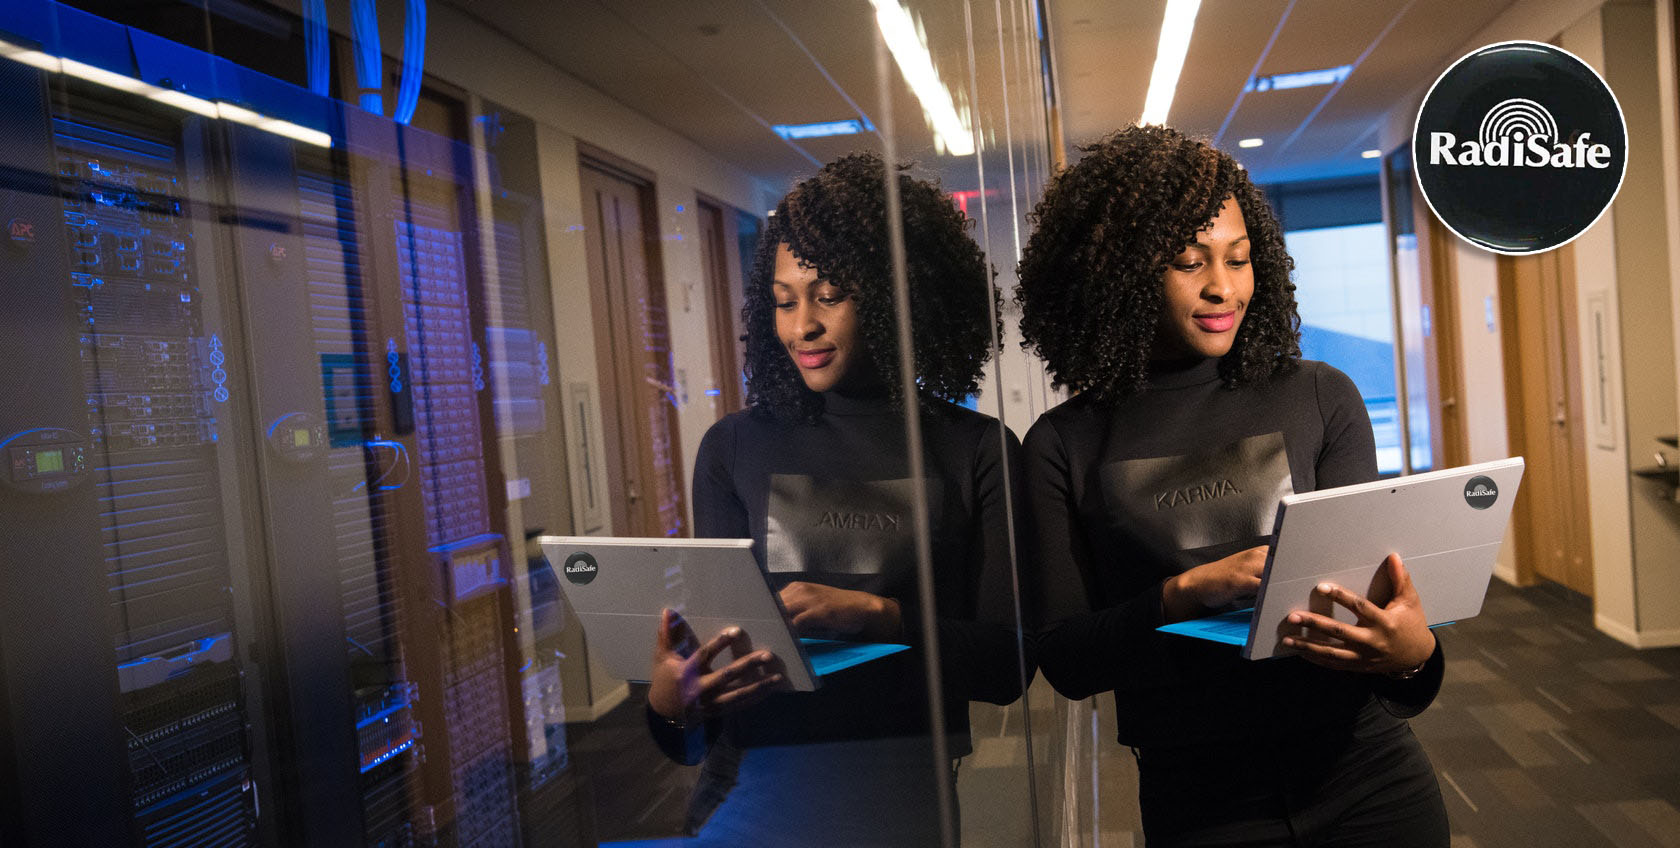
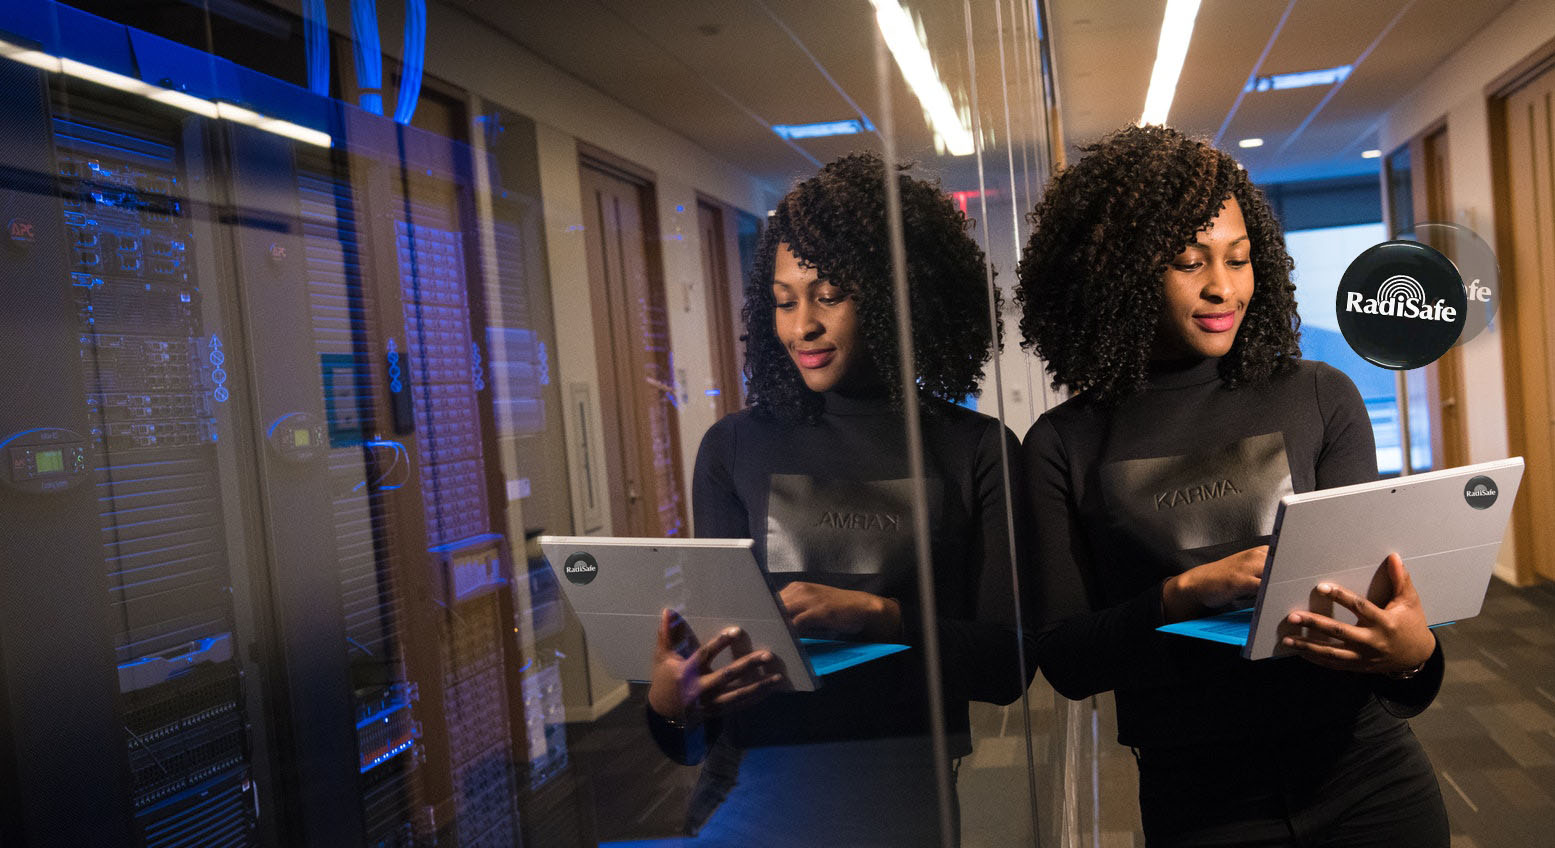
Ajout img header

diff --git a/assets/css/main.css b/assets/css/main.css
@@ -1,5 +1,6 @@
 .header{
-
+	background-image:url("../img/header_img.jpg");
+	height: 840px;
 }
 
 .compagny_name{
